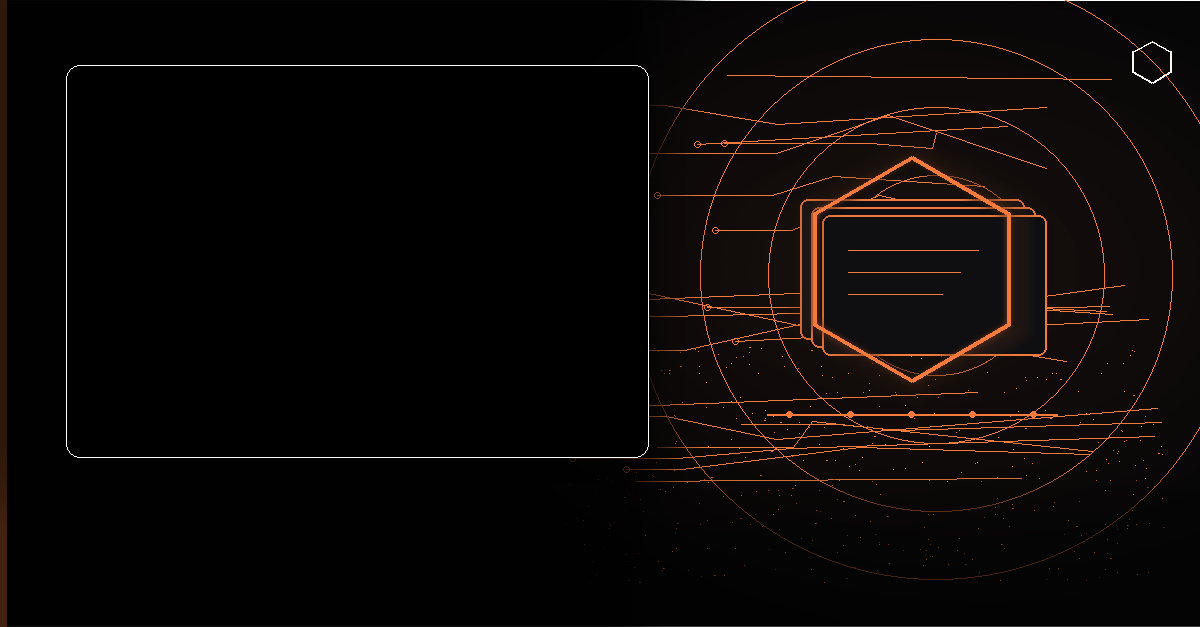
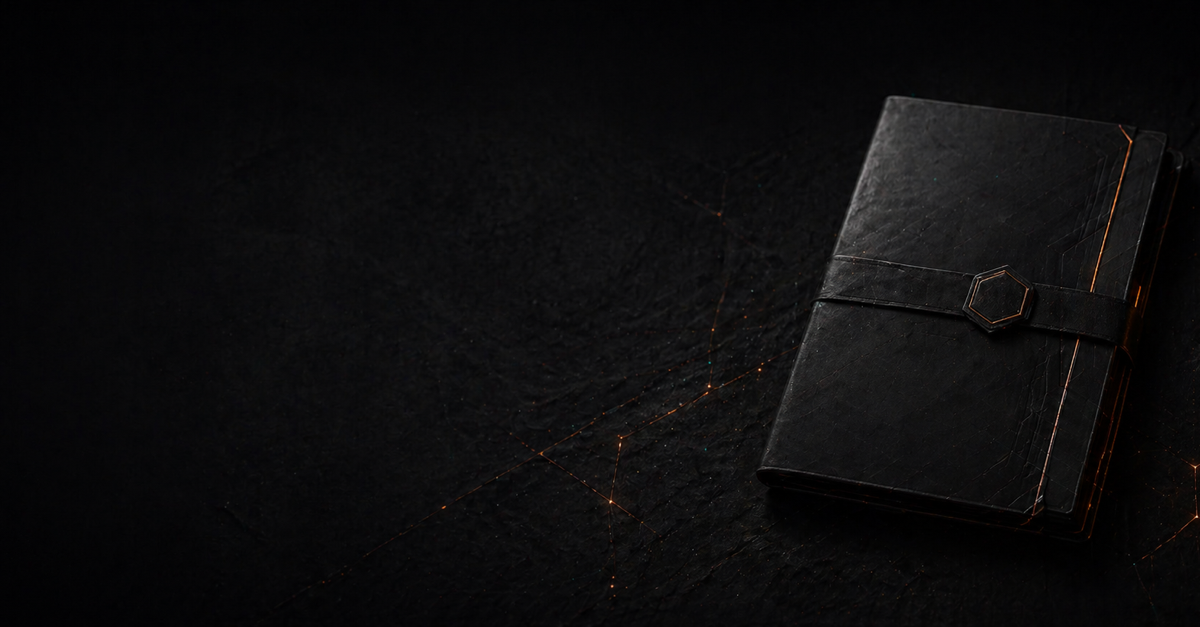
Update homepage source plates

diff --git a/apps/witnessops-web/src/lib/asset-foundry-visuals.ts b/apps/witnessops-web/src/lib/asset-foundry-visuals.ts
@@ -4,13 +4,16 @@ type AssetFoundryVisual = {
   width: number;
   height: number;
   alt: string;
+  sourceCommit: string;
+  sourceSha256: string;
 };
 
 /**
  * Asset Foundry visual lineage:
  * source repo: witnessops-asset-foundry
  * source path: asset_system/image_plates/...
- * source status: accepted v3 image plate
+ * source status: accepted v4 source plate
+ * source commit: witnessops-asset-foundry@4d516b3cfc0a6abf20e7ec7c24608fb73e77f5bf
  * text policy: no baked text
  */
 export const assetFoundryVisuals = {
@@ -20,6 +23,8 @@ export const assetFoundryVisuals = {
     width: 1920,
     height: 640,
     alt: "Dark WitnessOps proof execution visual showing orange execution traces entering a hexagonal proof boundary.",
+    sourceCommit: "4d516b3cfc0a6abf20e7ec7c24608fb73e77f5bf",
[1 lines of base64/hex data omitted]
   },
   proofBundleReceipt: {
     assetId: "01_consequential_decisions_leave_receipts",
@@ -27,5 +32,7 @@ export const assetFoundryVisuals = {
     width: 1200,
     height: 627,
     alt: "Dark receipt asset plate with orange hex seal and stacked proof-bundle surfaces.",
+    sourceCommit: "4d516b3cfc0a6abf20e7ec7c24608fb73e77f5bf",
[1 lines of base64/hex data omitted]
   },
 } satisfies Record<string, AssetFoundryVisual>;

diff --git a/apps/witnessops-web/src/components/marketing/verifiable-section.tsx b/apps/witnessops-web/src/components/marketing/verifiable-section.tsx
@@ -53,7 +53,7 @@ export function VerifiableSection({
             alt={proofVisual.alt}
             fill
             sizes="(min-width: 1024px) 38vw, 100vw"
-            className="object-cover object-center opacity-[0.9] brightness-[0.82] saturate-[0.86] scale-[1.55] -translate-x-[18%]"
+            className="object-cover object-[82%_center] opacity-[0.9] brightness-[0.82] saturate-[0.86] scale-[1.06]"
           />
         </figure>
 
